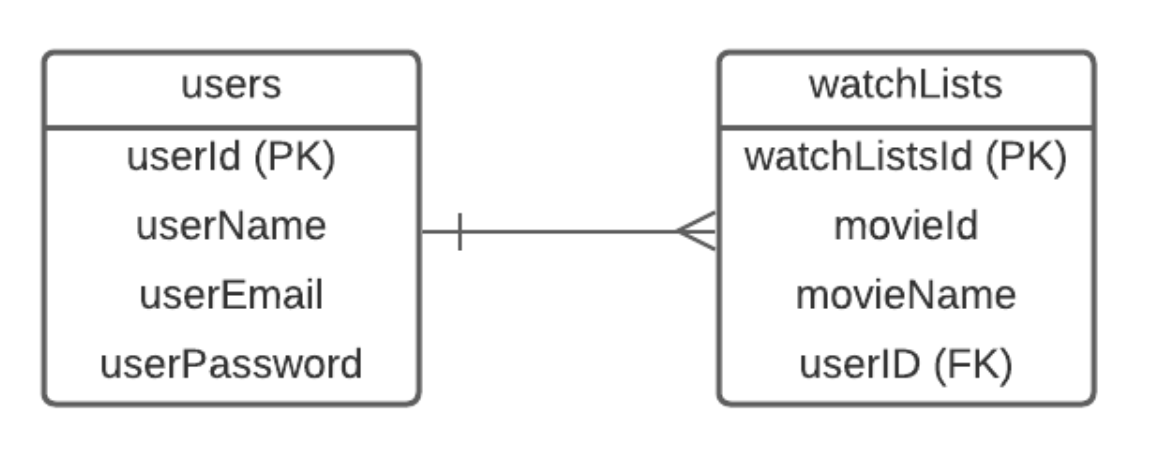
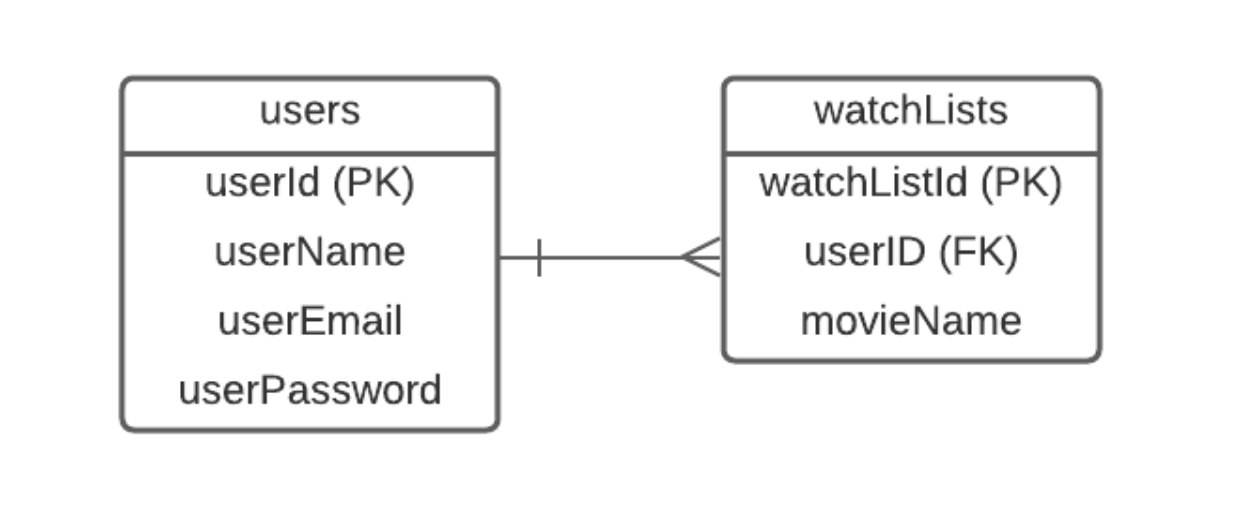
modify readme.me

Changed region(s): [[0.0304, 0.0897, 0.9739, 0.8974]]

diff --git a/README.md b/README.md
@@ -49,7 +49,7 @@ https://xd.adobe.com/view/7d108d22-579c-43cb-90e7-a757920979f3-2843/
 
 **A list of all the entities, its attributes and data types**
 - Users: userId (PK, integer), userNname (varchar 255), userEmail (varchar 255), userPassword (varchar 255)
-- Watchlists: watchListId (PK, integer), movieId (integer), userId (FK, integer), movie_name (varchar255)
+- Watchlists: watchListId (PK, integer), userId (FK, integer), movieName (varchar255)
 
 **Business rules:**
 - A user can add many movies to his/her watch later list
